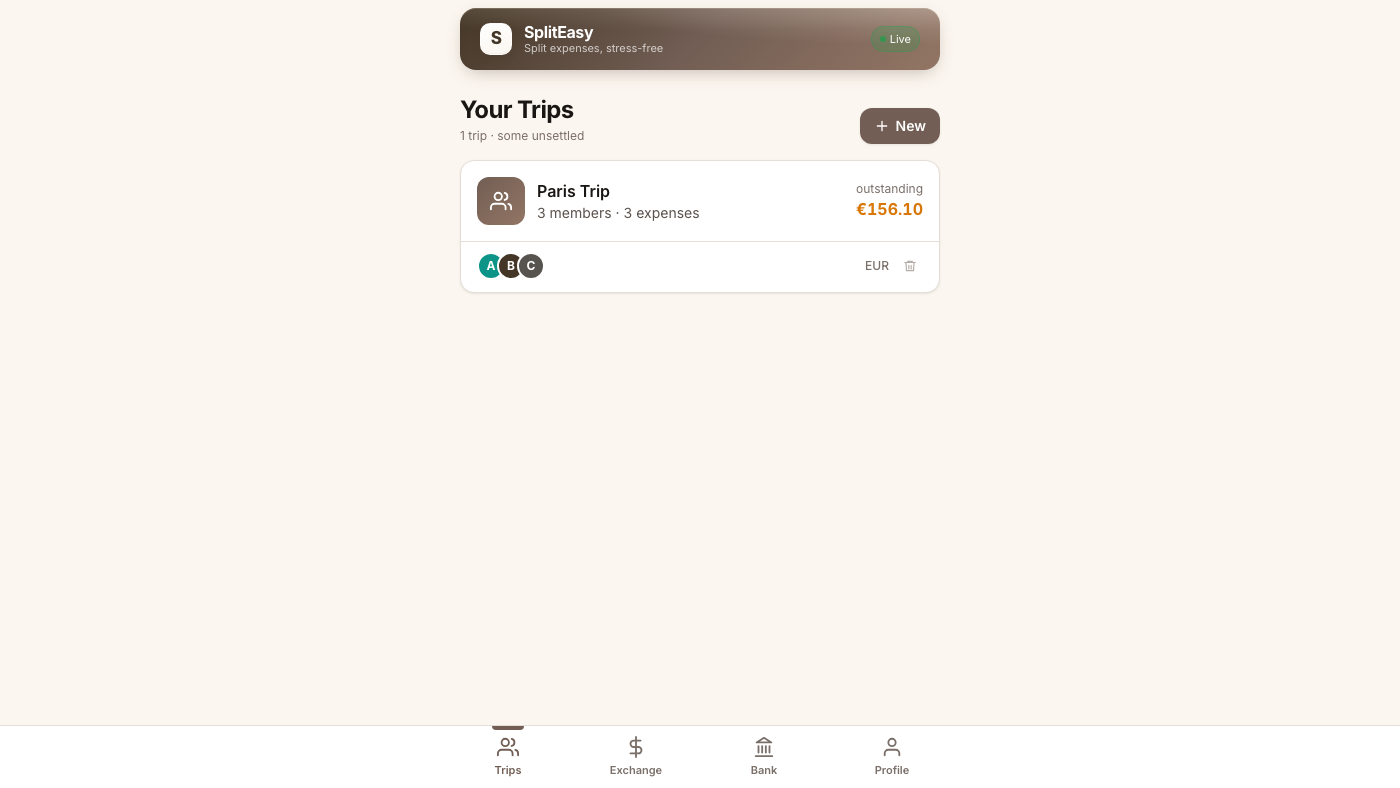
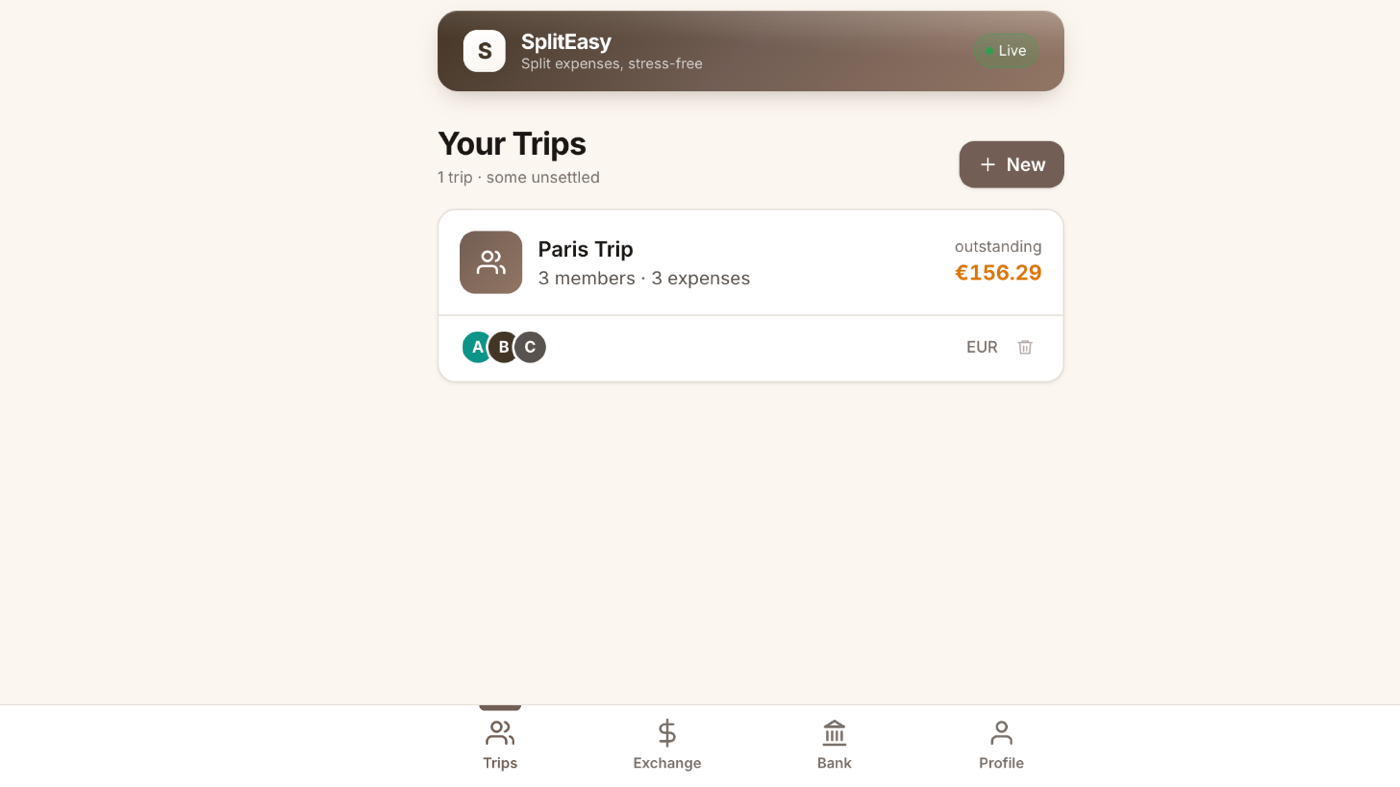
Refresh SplitEasy screenshots and correct the Bank caption
Recaptured Trips, Exchange and Bank from the running app at the same
1400x787 the rest of the Lab set uses.

The app itself has barely moved — the outstanding balance ticked from
EUR156.10 to EUR156.29 and the Exchange tab carries a current GBP/HKD rate.
The Bank caption was wrong, though, and had been since the shot was taken:
it read "linked account and imported transactions" while the screenshot
showed, then and now, the empty state before any account is connected.
Caption and alt text now describe what is actually on screen.

Claude-Session: https://claude.ai/code/session_015bjTA8P8fznaf52vAynPAC

diff --git a/index.html b/index.html
@@ -1698,7 +1698,7 @@ a { color: var(--ink); text-underline-offset: 3px; }
     <ul class="dialog-list"><li><strong>Fewest transfers</strong> — balances are settled by repeatedly matching the largest creditor against the largest debtor, so three people owing each other collapse into one or two payments.</li><li><strong>One base currency</strong> — expenses are entered in whatever was actually paid and converted through live rates, falling back to bundled rates offline.</li><li><strong>Splits must balance</strong> — the submit button stays disabled until the shares add up to the total.</li></ul>
 
     <h3>Screens</h3>
-    <figure class="dialog-figure"><img src="assets/img/cs/lab-spliteasy-exchange.png" alt="Exchange — live rates across 20 currencies"><figcaption>Exchange — live rates across 20 currencies</figcaption></figure><figure class="dialog-figure"><img src="assets/img/cs/lab-spliteasy-bank.png" alt="Bank — linked account and imported transactions"><figcaption>Bank — linked account and imported transactions</figcaption></figure>
+    <figure class="dialog-figure"><img src="assets/img/cs/lab-spliteasy-exchange.png" alt="Exchange — live rates across 20 currencies"><figcaption>Exchange — live rates across 20 currencies</figcaption></figure><figure class="dialog-figure"><img src="assets/img/cs/lab-spliteasy-bank.png" alt="Bank — Plaid link in sandbox, before any account is connected"><figcaption>Bank — Plaid link in sandbox, before any account is connected</figcaption></figure>
     <div class="lab-links" style="margin-top:var(--s-3)"><a class="lab-link secondary" href="https://github.com/aibotvivi/spliteasy" target="_blank" rel="noopener noreferrer"><svg viewBox="0 0 16 16" width="15" height="15" fill="currentColor" aria-hidden="true"><path d="M8 0C3.58 0 0 3.58 0 8c0 3.54 2.29 6.53 5.47 7.59.4.07.55-.17.55-.38 0-.19-.01-.82-.01-1.49-2.01.37-2.53-.49-2.69-.94-.09-.23-.48-.94-.82-1.13-.28-.15-.68-.52-.01-.53.63-.01 1.08.58 1.23.82.72 1.21 1.87.87 2.33.66.07-.52.28-.87.51-1.07-1.78-.2-3.64-.89-3.64-3.95 0-.87.31-1.59.82-2.15-.08-.2-.36-1.02.08-2.12 0 0 .67-.21 2.2.82.64-.18 1.32-.27 2-.27s1.36.09 2 .27c1.53-1.04 2.2-.82 2.2-.82.44 1.1.16 1.92.08 2.12.51.56.82 1.27.82 2.15 0 3.07-1.87 3.75-3.65 3.95.29.25.54.73.54 1.48 0 1.07-.01 1.93-.01 2.2 0 .21.15.46.55.38A8.01 8.01 0 0 0 16 8c0-4.42-3.58-8-8-8Z"/></svg> GitHub</a></div>
   </div>
 </dialog>
